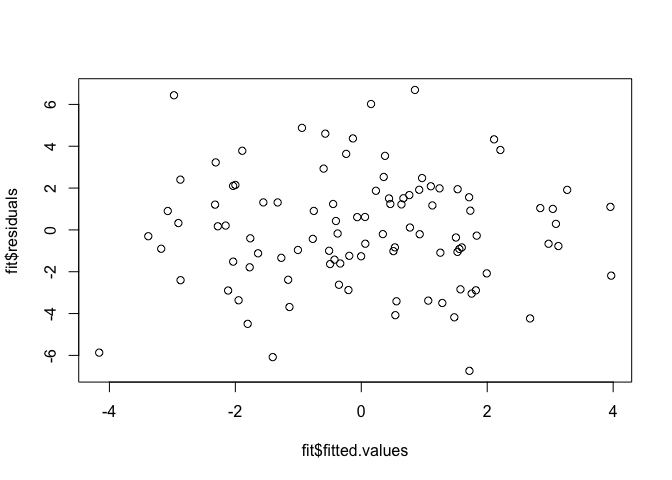
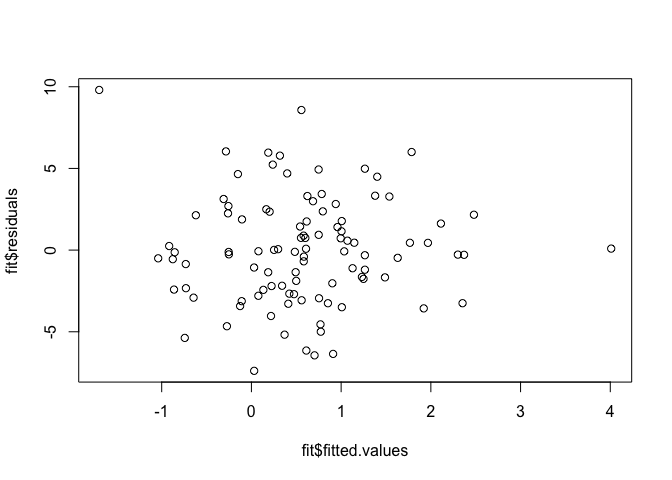
title change

diff --git a/estimation.md b/estimation.md
@@ -18,7 +18,7 @@ Yue Shi, Ph.D candidate, University of Washington
     -   [LOOCV (leave one out cross validation)](#loocv-leave-one-out-cross-validation)
     -   [Example: Simulation data](#example-simulation-data-1)
     -   [Example: Insulin](#example-insulin)
-    -   [Example: Cholesterol](#example-cholesterol)
+    -   [Example: Quantitative trait loci analysis for cholesterol levels](#example-quantitative-trait-loci-analysis-for-cholesterol-levels-1)
 
 Maximum Likelihood Estimation (MLE)
 -----------------------------------
@@ -326,15 +326,15 @@ rr=lsfit(X,Y)
 ls.print(rr)
 ```
 
-    ## Residual Standard Error=2.6967
-    ## R-Square=0.3078
-    ## F-statistic (df=2, 97)=21.5651
-    ## p-value=0
+    ## Residual Standard Error=3.3336
+    ## R-Square=0.0666
+    ## F-statistic (df=2, 97)=3.4617
+    ## p-value=0.0353
     ## 
     ##           Estimate Std.Err t-value Pr(>|t|)
-    ## Intercept   0.0864  0.6895  0.1253   0.9006
-    ## X1          0.1027  0.0588  1.7479   0.0836
-    ## X2          0.3767  0.0594  6.3454   0.0000
+    ## Intercept   0.9166  0.7917  1.1579   0.2498
+    ## X1          0.0367  0.0637  0.5753   0.5664
+    ## X2          0.2354  0.0952  2.4717   0.0152
 
 ``` r
 ## quadratic regression
@@ -345,15 +345,15 @@ rr=lsfit(X,Y2)
 ls.print(rr)
 ```
 
-    ## Residual Standard Error=3.0624
-    ## R-Square=0.9908
-    ## F-statistic (df=2, 97)=5202.706
+    ## Residual Standard Error=2.8559
+    ## R-Square=0.9922
+    ## F-statistic (df=2, 97)=6199.85
     ## p-value=0
     ## 
     ##           Estimate Std.Err t-value Pr(>|t|)
-    ## Intercept   2.9980  1.0986  2.7290   0.0075
-    ## X1         -0.3681  0.1967 -1.8713   0.0643
-    ## X3          0.3181  0.0087 36.3679   0.0000
+    ## Intercept  -0.9356  0.7413 -1.2621   0.2099
+    ## X1          0.4262  0.1475  2.8890   0.0048
+    ## X3          0.2815  0.0074 38.1632   0.0000
 
 Method 2: lm function in R (you don't need to combine X1 and X2)
 
@@ -368,125 +368,119 @@ summary(fit)
     ## 
     ## Residuals:
     ##     Min      1Q  Median      3Q     Max 
-    ## -6.7393 -1.5400 -0.1868  1.5868  6.6911 
+    ## -7.3919 -2.3530 -0.1108  2.1422  9.8036 
     ## 
     ## Coefficients:
-    ##             Estimate Std. Error t value Pr(>|t|)    
-    ## (Intercept)  0.08638    0.68950   0.125   0.9006    
-    ## X1           0.10274    0.05878   1.748   0.0836 .  
-    ## X2           0.37673    0.05937   6.345 7.09e-09 ***
+    ##             Estimate Std. Error t value Pr(>|t|)  
+    ## (Intercept)  0.91663    0.79166   1.158   0.2498  
+    ## X1           0.03667    0.06373   0.575   0.5664  
+    ## X2           0.23540    0.09524   2.472   0.0152 *
     ## ---
     ## Signif. codes:  0 '***' 0.001 '**' 0.01 '*' 0.05 '.' 0.1 ' ' 1
     ## 
-    ## Residual standard error: 2.697 on 97 degrees of freedom
-    ## Multiple R-squared:  0.3078, Adjusted R-squared:  0.2935 
-    ## F-statistic: 21.57 on 2 and 97 DF,  p-value: 1.785e-08
+    ## Residual standard error: 3.334 on 97 degrees of freedom
+    ## Multiple R-squared:  0.06662,    Adjusted R-squared:  0.04738 
+    ## F-statistic: 3.462 on 2 and 97 DF,  p-value: 0.0353
 
 ``` r
 rr=lsfit(X,Y)
 ls.print(rr)
 ```
 
-    ## Residual Standard Error=3.2013
-    ## R-Square=0.0245
-    ## F-statistic (df=2, 97)=1.2172
-    ## p-value=0.3005
+    ## Residual Standard Error=3.4368
+    ## R-Square=0.0079
+    ## F-statistic (df=2, 97)=0.3886
+    ## p-value=0.6791
     ## 
     ##           Estimate Std.Err t-value Pr(>|t|)
-    ## Intercept  -1.5142  1.1485 -1.3185   0.1904
-    ## X1          0.2219  0.2056  1.0790   0.2832
-    ## X3         -0.0058  0.0091 -0.6326   0.5285
+    ## Intercept   0.0751  0.8921  0.0842   0.9331
+    ## X1          0.0396  0.1775  0.2233   0.8238
+    ## X3          0.0009  0.0089  0.1053   0.9164
 
 ``` r
 fit$coefficients
 ```
 
     ## (Intercept)          X1          X2 
-    ##  0.08638082  0.10273825  0.37672948
+    ##  0.91663042  0.03666502  0.23539968
 
 ``` r
 fit$fitted.values
 ```
 
-    ##            1            2            3            4            5 
-    ## -0.754040710  0.852239797  0.059455013  1.286553989 -0.375907220 
-    ##            6            7            8            9           10 
-    ##  0.356424336  0.063511603  1.129013061 -1.140687853 -0.511118728 
-    ##           11           12           13           14           15 
-    ## -0.402449377  3.968900166  0.965253152 -0.354707118  0.154780860 
-    ##           16           17           18           19           20 
-    ## -1.999824207  0.376737648  0.510347412 -0.065311979  1.712147897 
-    ##           21           22           23           24           25 
-    ## -1.772492576 -2.115091558  1.242370215  0.762659736 -0.571674964 
-    ##           26           27           28           29           30 
-    ##  1.529818157 -1.948452569  1.992508524 -3.382857996 -2.035764814 
-    ##           31           32           33           34           35 
-    ## -1.804414178 -1.890056106  1.832969490  3.269942951 -0.425813310 
-    ##           36           37           38           39           40 
-    ## -2.034588282  1.255799400  1.527681216  1.595798601 -0.598150057 
-    ##           41           42           43           44           45 
-    ## -2.154553118  1.104945645 -2.904832576 -0.769896845 -2.873032100 
-    ##           46           47           48           49           50 
-    ## -0.190840640  1.557686150 -0.447395837 -1.161298991 -1.406109506 
-    ##           51           52           53           54           55 
-    ##  3.041911990 -0.239968233  2.108762547  3.956558917  1.752702150 
-    ##           56           57           58           59           60 
-    ##  0.540612024  2.680690024 -2.321981453 -2.870361718 -2.312004199 
-    ##           61           62           63           64           65 
-    ##  1.477298102 -1.005901304  3.091157960 -1.555526721 -3.177614794 
-    ##           66           67           68           69           70 
-    ## -0.334208531 -4.162235670  1.717371130 -0.002983777 -0.495004091 
-    ##           71           72           73           74           75 
-    ##  2.208840657 -2.278063811  0.534164311 -0.132887695 -1.270020715 
-    ##           76           77           78           79           80 
-    ##  0.772859702  2.842390033  0.919497035 -0.204067964  1.574898720 
-    ##           81           82           83           84           85 
-    ## -1.328422764 -0.942037909  0.558905683  0.927676137  0.637693575 
-    ##           86           87           88           89           90 
-    ##  0.668792582  1.820020782  0.342605380  1.503010395  3.129932642 
-    ##           91           92           93           94           95 
-    ##  0.232452135 -1.762860682  2.973852927  1.063499601  0.440495772 
-    ##           96           97           98           99          100 
-    ##  0.460890906 -1.639315743 -3.073406645 -2.974481076  1.731744015
+    ##           1           2           3           4           5           6 
+    ##  1.26495013  0.90195210  0.42256720  0.18698568  0.49304931 -0.25142409 
+    ##           7           8           9          10          11          12 
+    ## -0.74278546  1.96742340  1.00731161  0.85292673  2.11231410  1.24935545 
+    ##          13          14          15          16          17          18 
+    ## -0.15032920  1.63041596 -0.61918946  0.29757866  1.14665744  1.23174454 
+    ##          19          20          21          22          23          24 
+    ##  0.76982652  1.03443024  1.12752795  0.55972635  0.58471770  0.18794209 
+    ##          25          26          27          28          29          30 
+    ## -1.69660663 -0.28392760 -0.10794345  1.37890032  4.01022380  0.99517216 
+    ##          31          32          33          34          35          36 
+    ## -0.27306775  2.37011949 -0.25358760  1.00810872  2.35344990 -1.03913954 
+    ##          37          38          39          40          41          42 
+    ##  0.54239653  0.02980176  1.07046928  0.94021113  1.26461318  0.16606094 
+    ##          43          44          45          46          47          48 
+    ##  0.61571847 -0.73150781  0.74895191  0.74990018  0.49903903 -0.86259398 
+    ##          49          50          51          52          53          54 
+    ## -0.91687195  0.13310855  1.00435164  0.36952503  0.20274130  1.40241006 
+    ##          55          56          57          58          59          60 
+    ##  0.03051269  0.61205431  1.53763845 -0.85509012 -0.10505857 -0.26086770 
+    ##          61          62          63          64          65          66 
+    ##  1.76665575  0.79577039  0.07723793  0.55249736  0.62375965  0.34171807 
+    ##          67          68          69          70          71          72 
+    ##  0.39897735  0.47465651  0.21835587 -0.87635706  0.60083188  0.41096659 
+    ##          73          74          75          76          77          78 
+    ##  0.77337071  0.23797333 -0.64487175 -0.72996292  2.30095935  0.58170567 
+    ##          79          80          81          82          83          84 
+    ##  1.48864694 -0.25648464 -0.12611828  0.70357001  0.48416786  1.78576734 
+    ##          85          86          87          88          89          90 
+    ##  0.22460619  0.55708365  0.75367364  0.25237681  0.31757416  0.58317365 
+    ##          91          92          93          94          95          96 
+    ##  0.78385231  0.07829402  0.68657233  1.26474104  0.91041363  0.95927236 
+    ##          97          98          99         100 
+    ##  1.92075038  2.48015836 -0.30969561  0.60862340
 
 ``` r
 fit$residuals
 ```
 
-    ##          1          2          3          4          5          6 
-    ##  0.9068832  6.6911177  0.6171562 -3.4957205 -0.1730067  2.5308735 
-    ##          7          8          9         10         11         12 
-    ## -0.6609824  1.1694370 -3.6879147 -0.9994137  0.4250052 -2.1877276 
-    ##         13         14         15         16         17         18 
-    ##  2.4787566 -2.6239326  6.0186112  2.1491064  3.5396122 -1.0151518 
-    ##         19         20         21         22         23         24 
-    ##  0.6107878  1.5608568 -1.7883827 -2.8992153  1.9864484  1.6646519 
-    ##         25         26         27         28         29         30 
-    ##  4.6019273  1.9450075 -3.3652972 -2.0789109 -0.3025080  2.1038441 
-    ##         31         32         33         34         35         36 
-    ## -4.4919726  3.7837454 -0.2754491  1.9132797 -1.4234406 -1.5178726 
-    ##         37         38         39         40         41         42 
-    ## -1.0894095 -1.0510206 -0.8385669  2.9300713  0.2071389  2.0864957 
-    ##         43         44         45         46         47         48 
-    ##  0.3268249 -0.4304703  2.4027358 -1.2395949 -0.9113377  1.2386378 
-    ##         49         50         51         52         53         54 
-    ## -2.3856852 -6.0825407  1.0031774  3.6341138  4.3301870  1.1018317 
-    ##         55         56         57         58         59         60 
-    ## -3.0463013 -4.0775992 -4.2332713  1.2074113 -2.4050525  3.2267260 
-    ##         61         62         63         64         65         66 
-    ## -4.1793871 -0.9605932  0.2880749  1.3143361 -0.9016654 -1.6063500 
-    ##         67         68         69         70         71         72 
-    ## -5.8683010 -6.7393014 -1.2611233 -1.6332521  3.8204370  0.1726141 
-    ##         73         74         75         76         77         78 
-    ## -0.8353533  4.3736969 -1.3348155  0.1127017  1.0425812  1.9175052 
-    ##         79         80         81         82         83         84 
-    ## -2.8760678 -2.8420326  1.3121663  4.8776927 -3.4135833 -0.2074437 
-    ##         85         86         87         88         89         90 
-    ##  1.2189353  1.5127400 -2.8876042 -0.2006822 -0.3640998 -0.7723966 
-    ##         91         92         93         94         95         96 
-    ##  1.8696075 -0.4030820 -0.6627004 -3.3817694  1.5040190  1.2382656 
-    ##         97         98         99        100 
-    ## -1.1195507  0.9039698  6.4384634  0.9186376
+    ##           1           2           3           4           5           6 
+    ## -1.20187869 -2.03209676 -2.66740099 -1.35604953 -1.35306602 -0.26023570 
+    ##           7           8           9          10          11          12 
+    ## -5.37578373  0.44211866  1.77724601 -3.25234362  1.62349192 -1.76140213 
+    ##          13          14          15          16          17          18 
+    ##  4.65364689 -0.47462591  2.13487721  0.05600408  0.45179658 -1.64387878 
+    ##          19          20          21          22          23          24 
+    ## -4.54749656 -0.07663761 -1.11023293 -3.07183179 -0.40225885  5.96662918 
+    ##          25          26          27          28          29          30 
+    ##  9.80360189  6.04229016 -3.12600106  3.32749808  0.09178299  0.72369162 
+    ##          31          32          33          34          35          36 
+    ## -4.66042026 -0.28951334 -0.11446109 -3.49591144 -3.25101039 -0.50339772 
+    ##          37          38          39          40          41          42 
+    ##  1.44295153 -1.06663531  0.57621563  2.82031386 -0.31425677  2.50066611 
+    ##          43          44          45          46          47          48 
+    ##  1.75253593 -0.85470092  4.93414663  0.93483391 -1.88457089 -2.41751964 
+    ##          49          50          51          52          53          54 
+    ##  0.24940187 -2.43367379  1.14895888 -5.17732037  2.35129668  4.49168772 
+    ##          55          56          57          58          59          60 
+    ## -7.39189809 -6.14885173  3.27881055 -0.13429971  1.87971162  2.24963331 
+    ##          61          62          63          64          65          66 
+    ##  0.44669036  2.37124769 -2.79669568  0.74766100  3.30945146 -2.18415217 
+    ##          67          68          69          70          71          72 
+    ##  4.69446722 -2.69693616 -4.03463802 -0.55629624  0.74384281 -3.28446404 
+    ##          73          74          75          76          77          78 
+    ## -4.99487717  5.23223763 -2.91194039 -2.33147650 -0.27747477  0.88505983 
+    ##          79          80          81          82          83          84 
+    ## -1.66972023  2.69481828 -3.42596586 -6.44324319 -0.10713705  6.00340793 
+    ##          85          86          87          88          89          90 
+    ## -2.20014151  8.57456291 -2.94668562  0.01171600  5.78167624 -0.68718644 
+    ##          91          92          93          94          95          96 
+    ##  3.43468896 -0.07020733  2.99225689  4.98231526 -6.35520754  1.40964997 
+    ##          97          98          99         100 
+    ## -3.56871811  2.16426840  3.12800656  0.08096125
 
 ``` r
 anova(fit)
@@ -495,10 +489,10 @@ anova(fit)
     ## Analysis of Variance Table
     ## 
     ## Response: Y
-    ##           Df Sum Sq Mean Sq F value    Pr(>F)    
-    ## X1         1  20.85  20.846  2.8666   0.09364 .  
-    ## X2         1 292.80 292.800 40.2635 7.092e-09 ***
-    ## Residuals 97 705.39   7.272                      
+    ##           Df  Sum Sq Mean Sq F value  Pr(>F)  
+    ## X1         1    9.05   9.048  0.8142 0.36911  
+    ## X2         1   67.89  67.891  6.1092 0.01519 *
+    ## Residuals 97 1077.95  11.113                  
     ## ---
     ## Signif. codes:  0 '***' 0.001 '**' 0.01 '*' 0.05 '.' 0.1 ' ' 1
 
@@ -750,7 +744,7 @@ ridge_lm$coef[,10]
     ##        Xsex   Xweight_g  Xlength_cm     XTrigly XTotal_Chol        XFFA 
     ## -0.11701872  0.23404427  0.01042570  0.03482851  0.03578169  0.07695456
 
-### Example: Cholesterol
+### Example: Quantitative trait loci analysis for cholesterol levels
 
 Use the same data as above: quantitative trait loci analysis for cholesterol levels, use *R*<sup>2</sup> (coefficient of determination) to compare the ridge regression and the ordinary linear regression.
 
